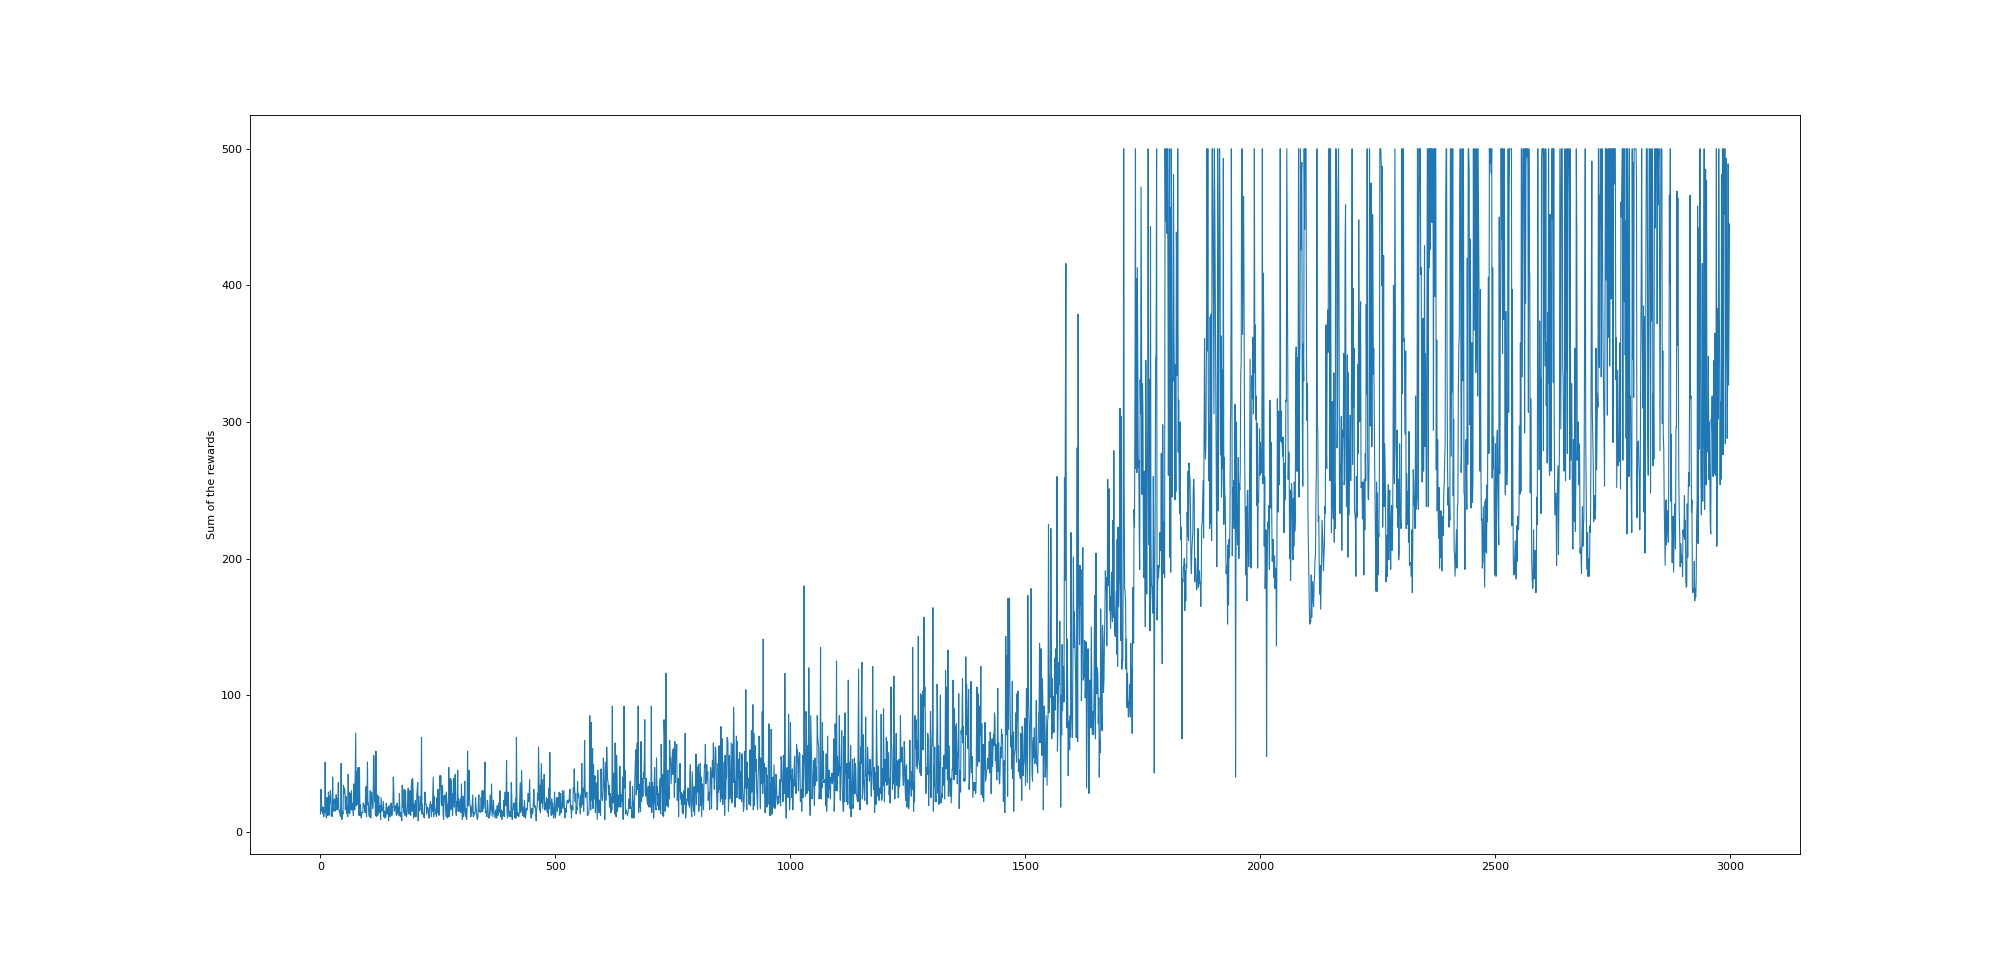
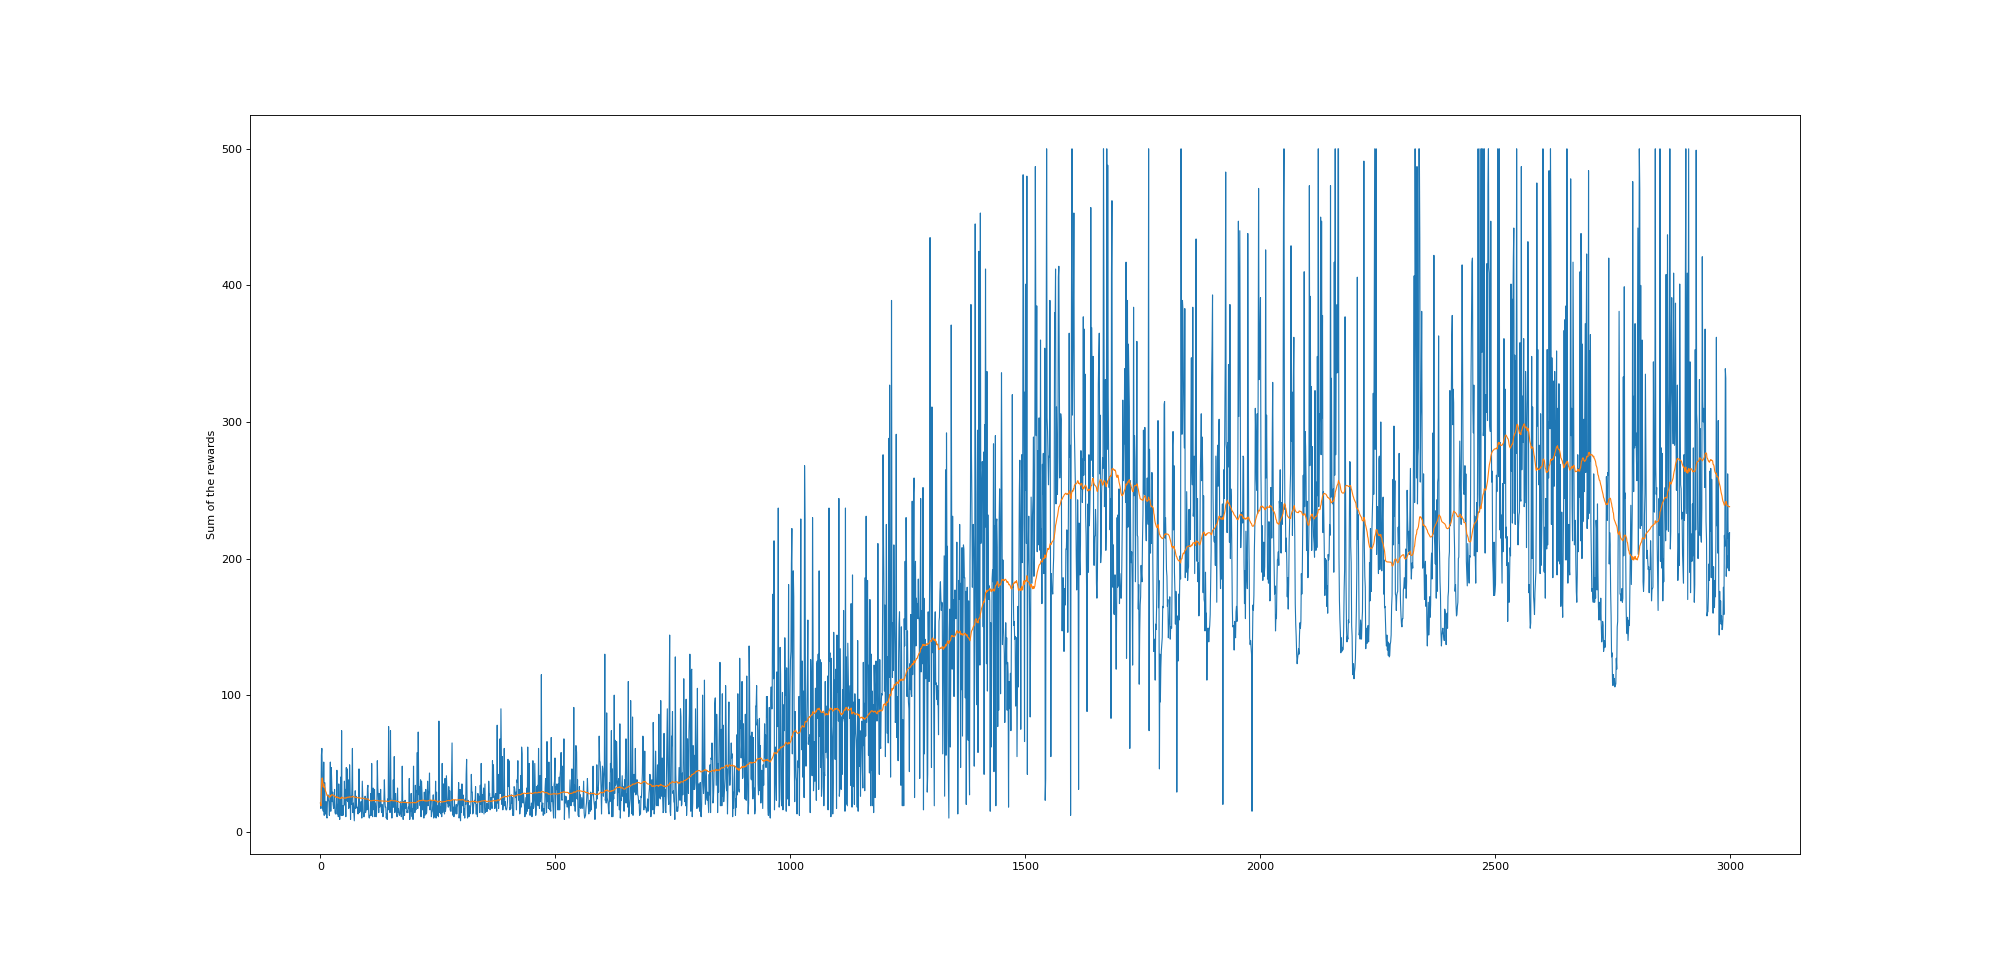
hyper parameters reworked

Changed region(s): [[0.155, 0.1562, 0.868, 0.875]]

diff --git a/python/TD3Agent.py b/python/TD3Agent.py
@@ -2,8 +2,6 @@ from random import sample
 from random import * 
 import torch.nn.functional as F
 
-from python.hyperParams import hyperParams
-
 import numpy as np
 
 import copy
@@ -16,13 +14,16 @@ import matplotlib.pyplot as plt
 
 
 class TD3Agent(object):
-    def __init__(self, action_space, observation_space, cuda=False):
+    def __init__(self, action_space, observation_space, hyperParams, cuda=False):
 
-        self.buffer_size = hyperParams.BUFFER_SIZE
-        self.alpha = hyperParams.TAU
-        self.gamma = hyperParams.GAMMA
-        self.exploration_noise = hyperParams.EXPLORATION_NOISE
-        self.policy_noise = hyperParams.POLICY_NOISE
+        self.hyperParams = hyperParams
+
+        self.buffer_size = self.hyperParams.BUFFER_SIZE
+        self.alpha = self.hyperParams.TAU
+        self.gamma = self.hyperParams.GAMMA
+        self.exploration_noise = self.hyperParams.EXPLORATION_NOISE
+        self.policy_noise = self.hyperParams.POLICY_NOISE
+        self.batch_size = self.hyperParams.BATCH_SIZE
 
         self.action_space = action_space
         self.buffer = []
@@ -33,17 +34,17 @@ class TD3Agent(object):
 
         self.device = torch.device("cuda" if cuda else "cpu")
 
-        self.critic_1 = Critic(observation_space.shape[0], action_space.shape[0]).to(device=self.device)
+        self.critic_1 = Critic(observation_space.shape[0], action_space.shape[0], self.hyperParams).to(device=self.device)
         self.critic_1_target = copy.deepcopy(self.critic_1).to(device=self.device)
-        self.critic_1_optimizer = torch.optim.Adam(self.critic_1.parameters(), hyperParams.LR_CRITIC, weight_decay=hyperParams.WEIGHT_DECAY)
+        self.critic_1_optimizer = torch.optim.Adam(self.critic_1.parameters(), self.hyperParams.LR_CRITIC, weight_decay=self.hyperParams.WEIGHT_DECAY)
         
-        self.critic_2 = Critic(observation_space.shape[0], action_space.shape[0]).to(device=self.device)
+        self.critic_2 = Critic(observation_space.shape[0], action_space.shape[0], self.hyperParams).to(device=self.device)
         self.critic_2_target = copy.deepcopy(self.critic_2).to(device=self.device)
-        self.critic_2_optimizer = torch.optim.Adam(self.critic_2.parameters(), hyperParams.LR_CRITIC, weight_decay=hyperParams.WEIGHT_DECAY)
-
-        self.actor = Actor(observation_space.shape[0], action_space.shape[0], action_space.high[0], tanh=True).to(device=self.device)
+        self.critic_2_optimizer = torch.optim.Adam(self.critic_2.parameters(), self.hyperParams.LR_CRITIC, weight_decay=self.hyperParams.WEIGHT_DECAY)
+        
+        self.actor = Actor(observation_space.shape[0], action_space.shape[0], self.hyperParams, max_action=action_space.high[0], tanh=True).to(device=self.device)
         self.actor_target = copy.deepcopy(self.actor).to(device=self.device)
-        self.actor_optimizer = torch.optim.Adam(self.actor.parameters(), hyperParams.LR_ACTOR)
+        self.actor_optimizer = torch.optim.Adam(self.actor.parameters(), self.hyperParams.LR_ACTOR)
         
 
 
@@ -54,10 +55,11 @@ class TD3Agent(object):
         return torch.tensor(action).numpy()
         
 
-    def sample(self, n=hyperParams.BATCH_SIZE):
-        if(n > len(self.buffer)):
-            n = len(self.buffer)
-        return sample(self.buffer, n)
+    def sample(self):
+        if(len(self.buffer) < self.batch_size):
+            return sample(self.buffer, len(self.buffer))
+        else:
+            return sample(self.buffer, self.batch_size)
 
     def memorize(self, ob_prec, action, ob, reward, done):
         if(len(self.buffer) > self.buffer_size):
@@ -78,7 +80,7 @@ class TD3Agent(object):
             
             tens_noise = torch.empty(tens_action.shape)
             tens_noise = nn.init.normal_(tens_noise, mean=0, std=self.policy_noise)
-            tens_noise = tens_noise.clamp(-hyperParams.NOISE_CLIP, hyperParams.NOISE_CLIP)
+            tens_noise = tens_noise.clamp(-self.hyperParams.NOISE_CLIP, self.hyperParams.NOISE_CLIP)
             tens_next_action = (self.actor_target(tens_ob_next) + tens_noise)
             tens_next_action = tens_next_action.clamp(-self.action_space.high[0], self.action_space.high[0])
 
@@ -101,7 +103,7 @@ class TD3Agent(object):
             critic_2_loss.backward()
             self.critic_2_optimizer.step()
             
-            if(i%hyperParams.POLICY_DELAY == 0):
+            if(i%self.hyperParams.POLICY_DELAY == 0):
                 
                 actor_loss = -self.critic_1(tens_ob, self.actor(tens_ob)).mean()
                 self.actor_optimizer.zero_grad()

diff --git a/python/NeuralNetworks.py b/python/NeuralNetworks.py
@@ -2,19 +2,14 @@ import torch
 from torch import nn
 from torch.autograd import Variable
 
-import python.hyperParams as HP
 
 
 
 class Actor(nn.Module):
 
-    def __init__(self, size_ob, size_action, max_action=1, hp_loaded=None, tanh=False): #for saved hyperparameters
+    def __init__(self, size_ob, size_action, hyperParams, max_action=1, tanh=False): #for saved hyperparameters
         super(Actor, self).__init__()
-        if(hp_loaded == None):
-            hyperParams=HP.hyperParams
-        else:
-            hyperParams=hp_loaded
-
+        print(hyperParams)
         self.inp = nn.Linear(size_ob, hyperParams.HIDDEN_SIZE)
         self.int = nn.Linear(hyperParams.HIDDEN_SIZE, hyperParams.ACT_INTER)
         self.out = nn.Linear(hyperParams.ACT_INTER, size_action)
@@ -35,9 +30,8 @@ class Actor(nn.Module):
 
 class Critic(nn.Module):
 
-    def __init__(self, size_ob, size_action):
+    def __init__(self, size_ob, size_action, hyperParams):
         super(Critic, self).__init__()
-        hyperParams=HP.hyperParams
         self.inp = nn.Linear(size_ob+size_action, hyperParams.CRIT_IN)
         self.int = nn.Linear(hyperParams.CRIT_IN, hyperParams.CRIT_INTER)
         self.out = nn.Linear(hyperParams.CRIT_INTER, 1)
@@ -51,12 +45,8 @@ class Critic(nn.Module):
         
 
 class REINFORCE_Model(nn.Module):
-    def __init__(self, size_ob, size_action, hp_loaded=None):
-        super(REINFORCE_Model, self).__init__()
-        if(hp_loaded == None):
-            hyperParams=HP.hyperParams
-        else:
-            hyperParams=hp_loaded
+    def __init__(self, size_ob, size_action, hyperParams):
+        super(REINFORCE_Model, self).__init__()       
         self.inp = nn.Linear(size_ob, hyperParams.HIDDEN_SIZE)
         self.out = nn.Linear(hyperParams.HIDDEN_SIZE, size_action)
         self.sm = nn.Softmax(dim=-1)
@@ -71,12 +61,8 @@ class REINFORCE_Model(nn.Module):
 
 
 class PPO_Actor(nn.Module):
-    def __init__(self, size_ob, size_action, hp_loaded=None):
+    def __init__(self, size_ob, size_action, hyperParams):
         super(PPO_Actor, self).__init__()
-        if(hp_loaded == None):
-            hyperParams=HP.hyperParams
-        else:
-            hyperParams=hp_loaded
         self.act_inp = nn.Linear(size_ob, hyperParams.HIDDEN_SIZE)
         self.act_out = nn.Linear(hyperParams.HIDDEN_SIZE, size_action)
         self.sm = nn.Softmax(dim=-1)
@@ -90,13 +76,8 @@ class PPO_Actor(nn.Module):
 
 
 class PPO_Critic(nn.Module):
-    def __init__(self, size_ob, hp_loaded=None):
+    def __init__(self, size_ob, hyperParams):
         super(PPO_Critic, self).__init__()
-        if(hp_loaded == None):
-            hyperParams=HP.hyperParams
-        else:
-            hyperParams=hp_loaded
-
         self.crit_inp = nn.Linear(size_ob, hyperParams.HIDDEN_SIZE)
         self.crit_out = nn.Linear(hyperParams.HIDDEN_SIZE, 1)
     

diff --git a/PPO.py b/PPO.py
@@ -10,12 +10,12 @@ import datetime as dt
 from python.NeuralNetworks import PPO_Actor, PPO_Critic
 from python.TD3Agent import *
 from python.DDQNAgent import *
-from python.hyperParams import hyperParams, module
+from python.hyperParams import PPOHyperParams, module
 
 from test import test
 
 
-def discount_rewards(rewards, gamma=hyperParams.GAMMA):
+def discount_rewards(rewards, gamma):
     r = np.array([gamma**i * rewards[i] for i in range(len(rewards))])
     # Reverse the array direction for cumsum and then
     # revert back to the original order
@@ -23,7 +23,7 @@ def discount_rewards(rewards, gamma=hyperParams.GAMMA):
     return r - r.mean()
 
 
-def gae(rewards, values, episode_ends, gamma=hyperParams.GAMMA, lam=0.5):
+def gae(rewards, values, episode_ends, gamma, lam):
     """Compute generalized advantage estimate.
         rewards: a list of rewards at each step.
         values: the value estimate of the state at each step.
@@ -53,8 +53,11 @@ def gae(rewards, values, episode_ends, gamma=hyperParams.GAMMA, lam=0.5):
 if __name__ == '__main__':
     env = gym.make(module) #gym env
 
-    actor = PPO_Actor(env.observation_space.shape[0], env.action_space.n)
-    critic = PPO_Critic(env.observation_space.shape[0])
+    hyperParams = PPOHyperParams()
+
+    actor = PPO_Actor(env.observation_space.shape[0], env.action_space.n, hyperParams)
+    critic = PPO_Critic(env.observation_space.shape[0], hyperParams)
+    old_critic = copy.deepcopy(critic)
     
     # Set up lists to hold results
     total_rewards = []
@@ -99,8 +102,8 @@ if __name__ == '__main__':
             
             # If done, batch data
             if done:
-                batch_rewards.extend(discount_rewards(rewards))
-                gaes = gae(np.expand_dims(np.array(rewards), 0), np.expand_dims(np.array(values), 0), np.expand_dims(np.array([not elem for elem in list_done]), 0))
+                batch_rewards.extend(discount_rewards(rewards, hyperParams.GAMMA))
+                gaes = gae(np.expand_dims(np.array(rewards), 0), np.expand_dims(np.array(values), 0), np.expand_dims(np.array([not elem for elem in list_done]), 0), hyperParams.GAMMA, hyperParams.LAMBDA)
                 batch_advantages.extend(gaes[0])
                 batch_states.extend(states)
                 batch_values.extend(values)

diff --git a/main.py b/main.py
@@ -10,7 +10,7 @@ import datetime as dt
 
 from python.TD3Agent import *
 from python.DDQNAgent import *
-from python.hyperParams import hyperParams, module
+from python.hyperParams import *
 
 from test import test
 
@@ -21,7 +21,6 @@ from test import test
 if __name__ == '__main__':
 
     cuda=False
-
     cuda = cuda and torch.cuda.is_available()
     print("cuda:", cuda)
     if(cuda):
@@ -29,12 +28,15 @@ if __name__ == '__main__':
 
     env = gym.make(module) #gym env
 
-    if("Continuous" in module): #agents are not the same wether the action space is continuous or discrete     
-        agent = TD3Agent(env.action_space, env.observation_space, cuda)
+    if("Continuous" in module): #agents are not the same wether the action space is continuous or discrete
+        hyperParams = TD3HyperParams()     
+        agent = TD3Agent(env.action_space, env.observation_space, hyperParams, cuda=cuda)
     else:
-        agent = DDQNAgent(env.action_space, env.observation_space, cuda=cuda)
+        hyperParams = DDQNHyperParams()
+        agent = DDQNAgent(env.action_space, env.observation_space, hyperParams, cuda=cuda)
 
     tab_sum_rewards = []
+    tab_mean_rewards = []
 
     for e in range(1, hyperParams.EPISODE_COUNT):
         ob = env.reset()
@@ -52,18 +54,18 @@ if __name__ == '__main__':
             if done or steps > hyperParams.MAX_STEPS:
                 if(len(agent.buffer)>hyperParams.LEARNING_START):
                     agent.learn(steps)
-                tab_sum_rewards.append(sum_rewards)      
+                tab_sum_rewards.append(sum_rewards)   
+                tab_mean_rewards.append(np.mean(tab_sum_rewards[-100:]))   
                 break
 
-        print("\rEp: {} Average of last 100: {:.2f}".format(e, np.mean(tab_sum_rewards[-100:])), end="")
-        if(np.mean(tab_sum_rewards[-100:]) > 300):
-            break
+        print("\rEp: {} Average of last 100: {:.2f}".format(e, tab_mean_rewards[-1]), end="")
           
 
     
     #plot the sums of rewards and the noise (noise shouldnt be in the same graph but for now it's good)
     plt.figure(figsize=(25, 12), dpi=80)
     plt.plot(tab_sum_rewards, linewidth=1)
+    plt.plot(tab_mean_rewards, linewidth=1)
     plt.ylabel('Sum of the rewards')       
     plt.savefig("./images/"+module+".png")
     

diff --git a/REINFORCE.py b/REINFORCE.py
@@ -10,12 +10,12 @@ import datetime as dt
 from python.NeuralNetworks import REINFORCE_Model
 from python.TD3Agent import *
 from python.DDQNAgent import *
-from python.hyperParams import hyperParams, module
+from python.hyperParams import REINFORCEHyperParams, module
 
 from test import test
 
 
-def discount_rewards(rewards, gamma=hyperParams.GAMMA):
+def discount_rewards(rewards, gamma):
     r = np.array([gamma**i * rewards[i] for i in range(len(rewards))])
     # Reverse the array direction for cumsum and then
     # revert back to the original order
@@ -28,12 +28,17 @@ if __name__ == '__main__':
 
     testing = False
 
+    hyperParams = REINFORCEHyperParams()
+
     if(len(sys.argv) > 1):
         if(sys.argv[1] == "--test"):
             testing = True
+            with open('./trained_networks/'+module+'_REINFORCE.hp', 'rb') as infile:
+                hyperParams = pickle.load(infile)
+            
 
 
-    policy = REINFORCE_Model(env.observation_space.shape[0], env.action_space.n)
+    policy = REINFORCE_Model(env.observation_space.shape[0], env.action_space.n, hyperParams)
     if(testing):
         policy.load_state_dict(torch.load('./trained_networks/'+module+'_REINFORCE.n'))
         policy.eval()
@@ -79,7 +84,7 @@ if __name__ == '__main__':
             
             # If done, batch data
             if done:
-                batch_rewards.extend(discount_rewards(rewards))
+                batch_rewards.extend(discount_rewards(rewards, hyperParams.GAMMA))
                 batch_states.extend(states)
                 batch_actions.extend(actions)
                 batch_counter += 1

diff --git a/python/DDQNAgent.py b/python/DDQNAgent.py
@@ -8,16 +8,14 @@ import copy
 import numpy as np
 import torch
 
-from python.hyperParams import hyperParams as hp
 from python.NeuralNetworks import Actor
 
 class DDQNAgent(object):
-    def __init__(self, action_space, observation_space, cuda=False, hyperParams=None, actor_to_load=None):
+    def __init__(self, action_space, observation_space, hyperParams, cuda=False, actor_to_load=None):
 
-        if(hyperParams == None): #use the good hyper parameters (loaded if it's a test, written in the code if it's a training)
-            self.hyperParams = hp
-        else:
-            self.hyperParams = hyperParams
+        self.hyperParams = hyperParams
+        
+        if(actor_to_load != None): #use the good hyper parameters (loaded if it's a test, written in the code if it's a training)
             self.hyperParams.EPSILON = 0
 
         self.action_space = action_space   
@@ -31,7 +29,7 @@ class DDQNAgent(object):
 
         self.device = torch.device("cuda" if cuda else "cpu")
 
-        self.actor = Actor(observation_space.shape[0], action_space.n).to(self.device) #for cartpole
+        self.actor = Actor(observation_space.shape[0], action_space.n, self.hyperParams).to(self.device) #for cartpole
 
         self.batch_size = self.hyperParams.BATCH_SIZE
 

diff --git a/python/hyperParams.py b/python/hyperParams.py
@@ -47,9 +47,30 @@ class DDQNHyperParams :
         self.EPSILON_DECAY = self.EPSILON/(self.EPISODE_COUNT*4/5)
 
 
-module = "CartPole-v1" #"LunarLanderContinuous-v2"
+class REINFORCEHyperParams :
+    def __init__(self):
+        self.LR = 0.01
+        self.BATCH_SIZE = 10
+        self.GAMMA = 0.99
 
-if("Continuous" in module):
-    hyperParams = TD3HyperParams()
-else:
-    hyperParams = DDQNHyperParams()
+        self.HIDDEN_SIZE = 16
+        self.ACT_INTER = 16
+
+        self.EPISODE_COUNT = 3000
+        self.MAX_STEPS = 1000
+
+
+class PPOHyperParams :
+    def __init__(self):
+        self.LR = 0.01
+        self.BATCH_SIZE = 10
+        self.GAMMA = 0.99
+        self.LAMBDA = 0.99
+
+        self.HIDDEN_SIZE = 16
+        self.ACT_INTER = 16
+
+        self.EPISODE_COUNT = 3000
+        self.MAX_STEPS = 1000
+
+module = "CartPole-v1" #"LunarLanderContinuous-v2"

diff --git a/test.py b/test.py
@@ -8,7 +8,6 @@ import matplotlib.pyplot as plt
 import datetime as dt
 
 from python.DDQNAgent import *
-from python.hyperParams import hyperParams, module
 
 
 
